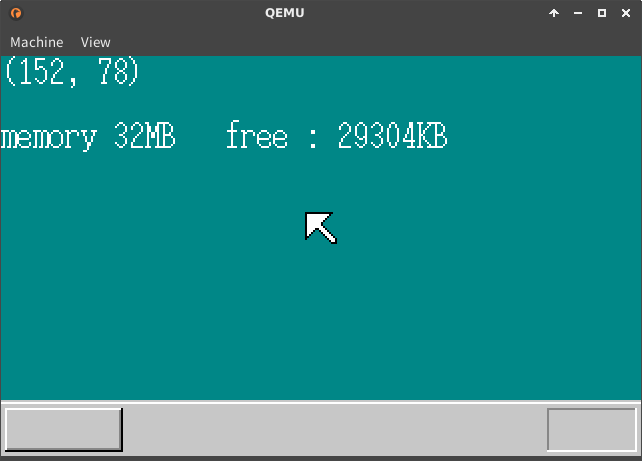
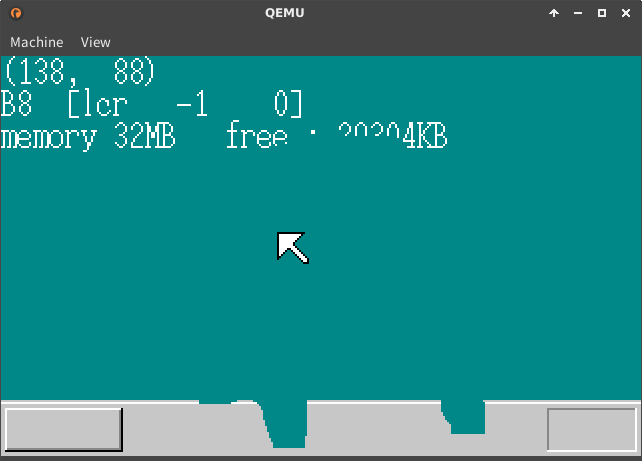
Fixed a all 10

diff --git a/10/10c/c_src/bootpack.c b/10/10c/c_src/bootpack.c
@@ -86,9 +86,9 @@ void HariMain(void) {
           if ((mdec.btn & 0x04) != 0) {
             s[2] = 'C';
           }
-          boxfill8(buf_mouse, binfo->scrnx, COL8_008484,
+          boxfill8(buf_back, binfo->scrnx, COL8_008484,
                    32, 16, 32 + 15 * 8 -1, 31);
-          putfonts8_asc(buf_mouse, binfo->scrnx, 32, 16, COL8_FFFFFF, s);
+          putfonts8_asc(buf_back, binfo->scrnx, 32, 16, COL8_FFFFFF, s);
           boxfill8(binfo->vram, binfo->scrnx, COL8_008484,
                    mx, my, mx + 15, my + 15);
           sheet_refresh(shtctl, sht_back, 32, 16, 32 + 15 * 8, 32);

diff --git a/10/10d/c_src/bootpack.c b/10/10d/c_src/bootpack.c
@@ -86,9 +86,9 @@ void HariMain(void) {
           if ((mdec.btn & 0x04) != 0) {
             s[2] = 'C';
           }
-          boxfill8(buf_mouse, binfo->scrnx, COL8_008484,
+          boxfill8(buf_back, binfo->scrnx, COL8_008484,
                    32, 16, 32 + 15 * 8 -1, 31);
-          putfonts8_asc(buf_mouse, binfo->scrnx, 32, 16, COL8_FFFFFF, s);
+          putfonts8_asc(buf_back, binfo->scrnx, 32, 16, COL8_FFFFFF, s);
           boxfill8(binfo->vram, binfo->scrnx, COL8_008484,
                    mx, my, mx + 15, my + 15);
           sheet_refresh(shtctl, sht_back, 32, 16, 32 + 15 * 8, 32);

diff --git a/10/10b/c_src/bootpack.c b/10/10b/c_src/bootpack.c
@@ -86,9 +86,9 @@ void HariMain(void) {
           if ((mdec.btn & 0x04) != 0) {
             s[2] = 'C';
           }
-          boxfill8(buf_mouse, binfo->scrnx, COL8_008484,
+          boxfill8(buf_back, binfo->scrnx, COL8_008484,
                    32, 16, 32 + 15 * 8 -1, 31);
-          putfonts8_asc(buf_mouse, binfo->scrnx, 32, 16, COL8_FFFFFF, s);
+          putfonts8_asc(buf_back, binfo->scrnx, 32, 16, COL8_FFFFFF, s);
           /* Move mouse cursor */
           boxfill8(binfo->vram, binfo->scrnx, COL8_008484,
                    mx, my, mx + 15, my + 15);
